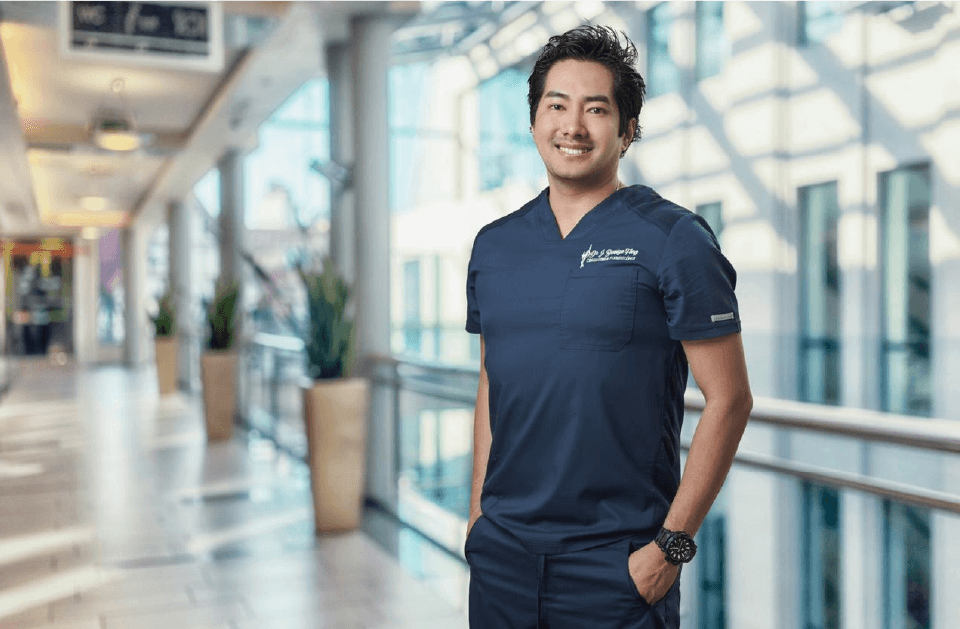
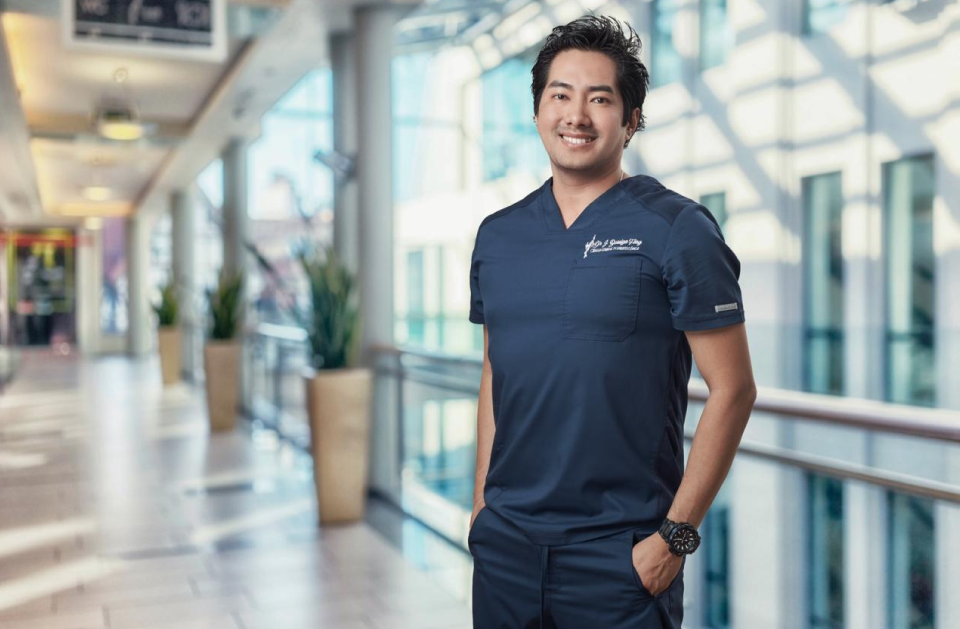
update img home

diff --git a/css/index.css b/css/index.css
@@ -335,7 +335,7 @@ body::-webkit-scrollbar-thumb {
   text-align: center;
 }
 .img-bg-servicios img {
-  height: 300px;
+  height: 350px;
 }
 .grid-testimonio-img p {
   color: #6e6e6e;
